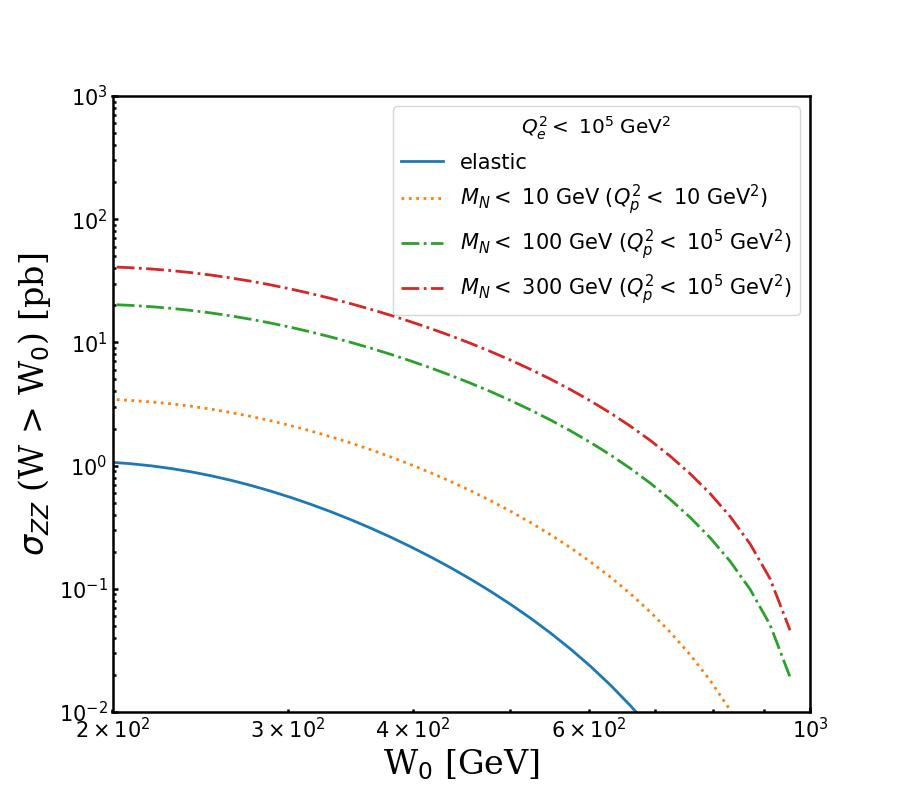
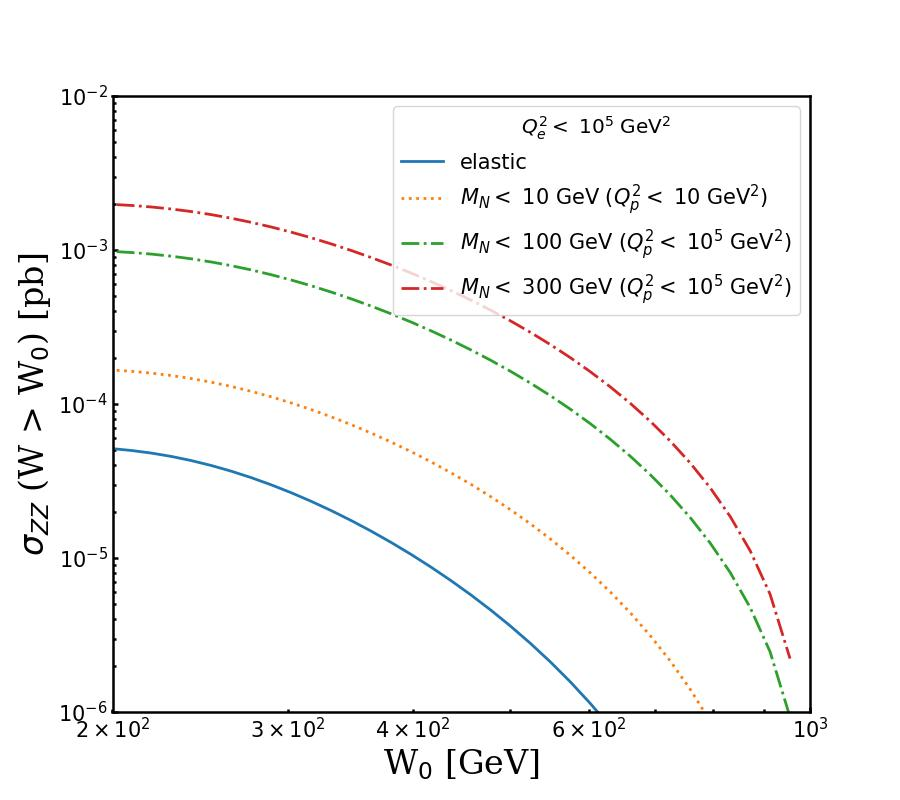
gamma gamma to ZZ

diff --git a/yy_Corrected_with_MN2_mMin2_q2min_26July/trapint_zz_Hamzeh.py b/yy_Corrected_with_MN2_mMin2_q2min_26July/trapint_zz_Hamzeh.py
@@ -30,7 +30,7 @@ def cs_zz_w(wvalue):
     alpha = 1./137.
     hbarc =  197.327
     hbarc2 =  0.389
-    convert = hbarc2 * alpha * alpha * 1000000000.0
+    convert =  1.0 # hbarc2 * alpha * alpha * 1000000000.0
 
     if wvalue > 2.0 * mZ:
  #       cs = re * re * me * me * 0.279061 * ( 1.0 - 8315.07/(wvalue*wvalue) )**12.9722
@@ -76,7 +76,7 @@ wv2, int_el = trap_integ(wv, el)
 
 fig, ax = plt.subplots(figsize = (9., 8.))
 ax.set_xlim(200., 1000.)
-ax.set_ylim(1.e-2, 10.e2)
+ax.set_ylim(1.e-6, 1.e-2)
 
 
 inel_label = ('$M_N<$ ${{{:g}}}$ GeV').format(inel[0]) + (' ($Q^2_p<$ ${{{:g}}}$ GeV$^2$)').format(inel[2])
